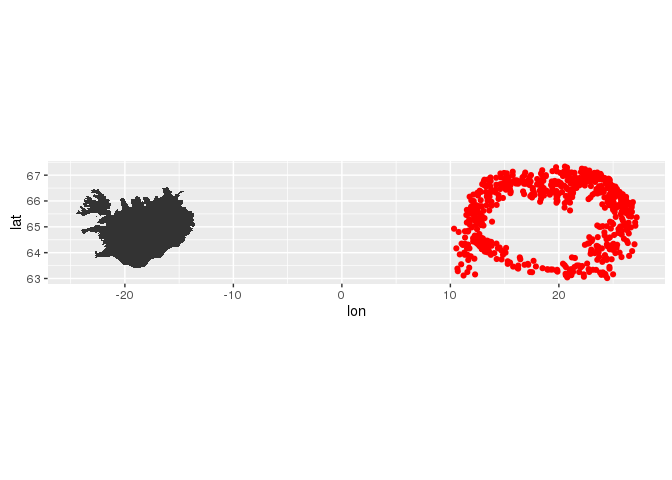
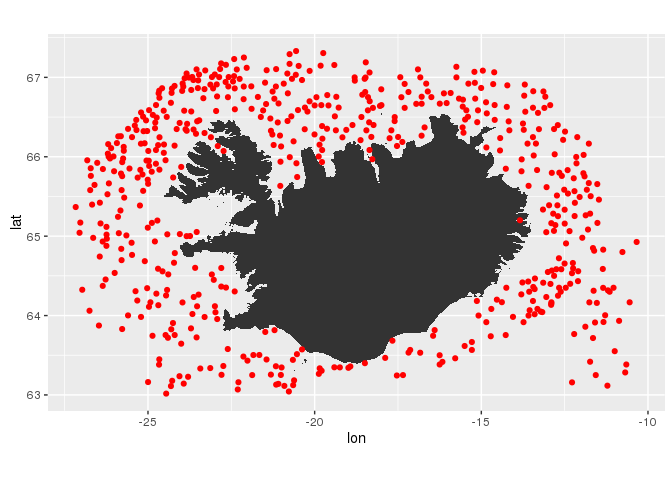
- sett mínus fyrir framan lengdargráður - forsíðan löguð til samræmis

diff --git a/README.md b/README.md
@@ -70,7 +70,7 @@ explain(lengdir)
 
 ```
 ## <SQL> EXPLAIN PLAN FOR SELECT "SYNIS_ID" AS "synis_id", "TEGUND" AS "tegund", "LENGD" AS "lengd", "FJOLDI" AS "fjoldi", "KYN" AS "kyn", "KYNTHROSKI" AS "kynthroski", "SBT" AS "sbt", "SBN" AS "sbn", "SNT" AS "snt", "SNN" AS "snn"
-## FROM (fiskar.lengdir) "hkilyrvkld"
+## FROM (fiskar.lengdir) "ogvogjwigj"
 ```
 Ergo we generated an object, which one part is an SQL-query. The `explain` informs us how the database plans to execute the query.
 
@@ -133,7 +133,7 @@ explain(lengdir)
 ## <SQL> EXPLAIN PLAN FOR SELECT *
 ## FROM (SELECT "synis_id" AS "synis_id", "tegund" AS "tegund", "lengd" AS "lengd", "fjoldi" AS "fjoldi", "kyn" AS "kyn", "kynthroski" AS "kynthroski"
 ## FROM (SELECT "SYNIS_ID" AS "synis_id", "TEGUND" AS "tegund", "LENGD" AS "lengd", "FJOLDI" AS "fjoldi", "KYN" AS "kyn", "KYNTHROSKI" AS "kynthroski", "SBT" AS "sbt", "SBN" AS "sbn", "SNT" AS "snt", "SNN" AS "snn"
-## FROM (fiskar.lengdir) "hvqhbzyfbh") "scmwyksqez") "duafngrueq"
+## FROM (fiskar.lengdir) "pqowpfcaqz") "kjspekatwk") "kunaqysrtd"
 ## WHERE (("synis_id" = 48489.0) AND ("tegund" = 1.0))
 ```
 
@@ -210,36 +210,36 @@ explain(d)
 ## FROM (SELECT "synis_id", "tegund", "lengd", "fjoldi", "kyn", "kynthroski", 'lengdir' AS "uppruni_lengdir"
 ## FROM (SELECT "synis_id" AS "synis_id", "tegund" AS "tegund", "lengd" AS "lengd", "fjoldi" AS "fjoldi", "kyn" AS "kyn", "kynthroski" AS "kynthroski"
 ## FROM (SELECT * FROM (SELECT "SYNIS_ID" AS "synis_id", "TEGUND" AS "tegund", "LENGD" AS "lengd", "FJOLDI" AS "fjoldi", "KYN" AS "kyn", "KYNTHROSKI" AS "kynthroski", "SBT" AS "sbt", "SBN" AS "sbn", "SNT" AS "snt", "SNN" AS "snn"
-## FROM (fiskar.lengdir) "becrdlvnfw") "lnqicezgvi"
+## FROM (fiskar.lengdir) "axmmfesjfj") "tzdjzmygdz"
 ## 
 ## INNER JOIN
 ## 
 ## (SELECT "synis_id" AS "synis_id"
 ## FROM (SELECT *
 ## FROM (SELECT "SYNIS_ID" AS "synis_id", "LEIDANGUR" AS "leidangur", "DAGS" AS "dags", "SKIP" AS "skip", "STOD" AS "stod", "REITUR" AS "reitur", "SMAREITUR" AS "smareitur", "KASTAD_N_BREIDD" AS "kastad_n_breidd", "KASTAD_V_LENGD" AS "kastad_v_lengd", "HIFT_N_BREIDD" AS "hift_n_breidd", "HIFT_V_LENGD" AS "hift_v_lengd", "DYPI_KASTAD" AS "dypi_kastad", "DYPI_HIFT" AS "dypi_hift", "VEIDARFAERI" AS "veidarfaeri", "MOSKVASTAERD" AS "moskvastaerd", "GRANDARALENGD" AS "grandaralengd", "HEILDARAFLI" AS "heildarafli", "LONDUNARHOFN" AS "londunarhofn", "SKIKI" AS "skiki", "FJARDARREITUR" AS "fjardarreitur", "SNT" AS "snt", "SNN" AS "snn", "SBT" AS "sbt", "SBN" AS "sbn", "HNATTSTADA" AS "hnattstada", "LANDSYNI" AS "landsyni", "ATHS" AS "aths", "STADA_STODVAR" AS "stada_stodvar", "NET_NR" AS "net_nr", "SYNAFLOKKUR" AS "synaflokkur", "VEIDISVAEDI" AS "veidisvaedi", "HITAMAELIR_ID" AS "hitamaelir_id", "MAELINGARMENN" AS "maelingarmenn", "VEIDARFAERI_ID" AS "veidarfaeri_id", "TOG_ATHS" AS "tog_aths", "MEDFERD_AFLA" AS "medferd_afla"
-## FROM (fiskar.stodvar) "yjusjwkdrh") "soesafjklq"
-## WHERE ("dags" > TO_DATE('01.01.1986', 'dd.mm.yyyy'))) "vdsmzxeyvu") "cjbbabzqxp"
+## FROM (fiskar.stodvar) "hefvqecptr") "nwhcirokzr"
+## WHERE ("dags" > TO_DATE('01.01.1986', 'dd.mm.yyyy'))) "zzyovcibmi") "fidobvfwfh"
 ## 
-## USING ("synis_id")) "bsbeynzwqk") "yqatwlpjdp"
+## USING ("synis_id")) "ifprnsklcu") "ztgxeuenrr"
 ## UNION ALL
 ## SELECT "synis_id", "tegund", "lengd", "fjoldi", "kyn", "kynthroski", 'leidr_lengdir' AS "uppruni_lengdir"
 ## FROM (SELECT *
 ## FROM (SELECT * FROM (SELECT "synis_id" AS "synis_id", "tegund" AS "tegund", "lengd" AS "lengd", "fjoldi" AS "fjoldi", "kyn" AS "kyn", "kynthroski" AS "kynthroski"
 ## FROM (SELECT "SNT" AS "snt", "SNN" AS "snn", "SBT" AS "sbt", "SBN" AS "sbn", "SYNIS_ID" AS "synis_id", "TEGUND" AS "tegund", "LENGD" AS "lengd", "FJOLDI" AS "fjoldi", "KYN" AS "kyn", "KYNTHROSKI" AS "kynthroski"
-## FROM (fiskar.leidr_lengdir) "xublgigloc") "tacwjgvqyl") "lotebiwznf"
+## FROM (fiskar.leidr_lengdir) "eaficzgpse") "yuyiwqplnf") "ntbduxporp"
 ## 
 ## INNER JOIN
 ## 
 ## (SELECT "synis_id" AS "synis_id"
 ## FROM (SELECT *
 ## FROM (SELECT "SNT" AS "snt", "SNN" AS "snn", "SBT" AS "sbt", "SBN" AS "sbn", "SYNIS_ID" AS "synis_id", "LEIDANGUR" AS "leidangur", "SYNAFLOKKUR" AS "synaflokkur", "DAGS" AS "dags", "SKIP_NR" AS "skip_nr", "STOD" AS "stod", "REITUR" AS "reitur", "SMAREITUR" AS "smareitur", "ORREITUR" AS "orreitur", "HNATTSTADA" AS "hnattstada", "KASTAD_BREIDD" AS "kastad_breidd", "KASTAD_LENGD" AS "kastad_lengd", "HIFT_BREIDD" AS "hift_breidd", "HIFT_LENGD" AS "hift_lengd", "DYPI_KASTAD" AS "dypi_kastad", "DYPI_HIFT" AS "dypi_hift", "VEIDARF" AS "veidarf", "MOSKVASTAERD" AS "moskvastaerd", "GRANDARALENGD" AS "grandaralengd", "HEILDARAFLI" AS "heildarafli", "L_HOFN" AS "l_hofn", "SKIKI" AS "skiki", "FJ_REITUR" AS "fj_reitur", "TOGBYRJUN" AS "togbyrjun", "TOGENDIR" AS "togendir", "TOGHRADI" AS "toghradi", "TOGLENGD" AS "toglengd", "VIR_UTI" AS "vir_uti", "LODRETT_OPNUN" AS "lodrett_opnun", "TOGNUMER" AS "tognumer", "TOGSTEFNA" AS "togstefna", "LARETT_OPNUN" AS "larett_opnun", "TOGTIMI" AS "togtimi", "EYKT" AS "eykt", "TOGDYPI_KASTAD" AS "togdypi_kastad", "TOGDYPI_HIFT" AS "togdypi_hift", "TOGDYPISHITI" AS "togdypishiti", "VINDHRADI" AS "vindhradi", "VINDATT" AS "vindatt", "VEDUR" AS "vedur", "SKY" AS "sky", "SJOR" AS "sjor", "BOTNHITI" AS "botnhiti", "YFIRB_HITI" AS "yfirb_hiti", "LOFTHITI" AS "lofthiti", "LOFTVOG" AS "loftvog", "HAFIS" AS "hafis", "STRAUMSTEFNA" AS "straumstefna", "STRAUMHRADI" AS "straumhradi", "SJONDYPI" AS "sjondypi", "ATHS" AS "aths", "LANDSYNI" AS "landsyni", "STADA_STODVAR" AS "stada_stodvar", "HITAMAELIR_ID" AS "hitamaelir_id", "MAELINGARMENN" AS "maelingarmenn", "MEDFERD_AFLA" AS "medferd_afla", "NET_NR" AS "net_nr", "TOG_ATHS" AS "tog_aths", "VEIDARFAERI_ID" AS "veidarfaeri_id", "VEIDISVAEDI" AS "veidisvaedi", "VINDHRADI_HNUTAR" AS "vindhradi_hnutar"
-## FROM (fiskar.leidr_stodvar) "jrjpodpvyy") "iteijqcuyo"
-## WHERE ("dags" < TO_DATE('01.01.1986', 'dd.mm.yyyy') AND "dags" > TO_DATE('1910', 'yyyy'))) "fnmpchdnri") "fedvgwgrkp"
+## FROM (fiskar.leidr_stodvar) "hnmvuerngi") "tdbvndafhq"
+## WHERE ("dags" < TO_DATE('01.01.1986', 'dd.mm.yyyy') AND "dags" > TO_DATE('1910', 'yyyy'))) "vexsluqcnt") "xtmorsuvzs"
 ## 
-## USING ("synis_id")) "xuulmgeemk"
-## WHERE (NOT(("synis_id" IN (133095.0, 57070.0, 133401.0, 37559.0, 112980.0, 112984.0, 112987.0, 112991.0, 112995.0, 112998.0, 112999.0, 128268.0, 129166.0, 129168.0, 140153.0, 140155.0, 129370.0, 129170.0, 128765.0, 129098.0, 119798.0, 128890.0, 129146.0, 128586.0, 128898.0, 128902.0, 123916.0, 128392.0, 116665.0, 115948.0, 115967.0))))) "enzfghdety") "swvkycetfm") "khoudokflg"
-## WHERE ("synis_id" = 48489.0)) "xviuthyeze"
-## GROUP BY "tegund") "mgbqliywor"
+## USING ("synis_id")) "cyysyvfxmy"
+## WHERE (NOT(("synis_id" IN (133095.0, 57070.0, 133401.0, 37559.0, 112980.0, 112984.0, 112987.0, 112991.0, 112995.0, 112998.0, 112999.0, 128268.0, 129166.0, 129168.0, 140153.0, 140155.0, 129370.0, 129170.0, 128765.0, 129098.0, 119798.0, 128890.0, 129146.0, 128586.0, 128898.0, 128902.0, 123916.0, 128392.0, 116665.0, 115948.0, 115967.0))))) "ytmwgmphdr") "olkfydhtob") "vlcisdmscj"
+## WHERE ("synis_id" = 48489.0)) "orkwrmiztu"
+## GROUP BY "tegund") "smfoqlxvot"
 ## ORDER BY "fjoldi"
 ```
 
@@ -317,9 +317,9 @@ lesa_stodvar(mar) %>%
 ## $ reitur           <int> 669
 ## $ smareitur        <int> 4
 ## $ kastad_n_breidd  <dbl> 66.50917
-## $ kastad_v_lengd   <dbl> 19.39383
+## $ kastad_v_lengd   <dbl> -19.39383
 ## $ hift_n_breidd    <dbl> 66.5575
-## $ hift_v_lengd     <dbl> 19.37867
+## $ hift_v_lengd     <dbl> -19.37867
 ## $ dypi_kastad      <int> 311
 ## $ dypi_hift        <int> 311
 ## $ veidarfaeri      <int> 73
